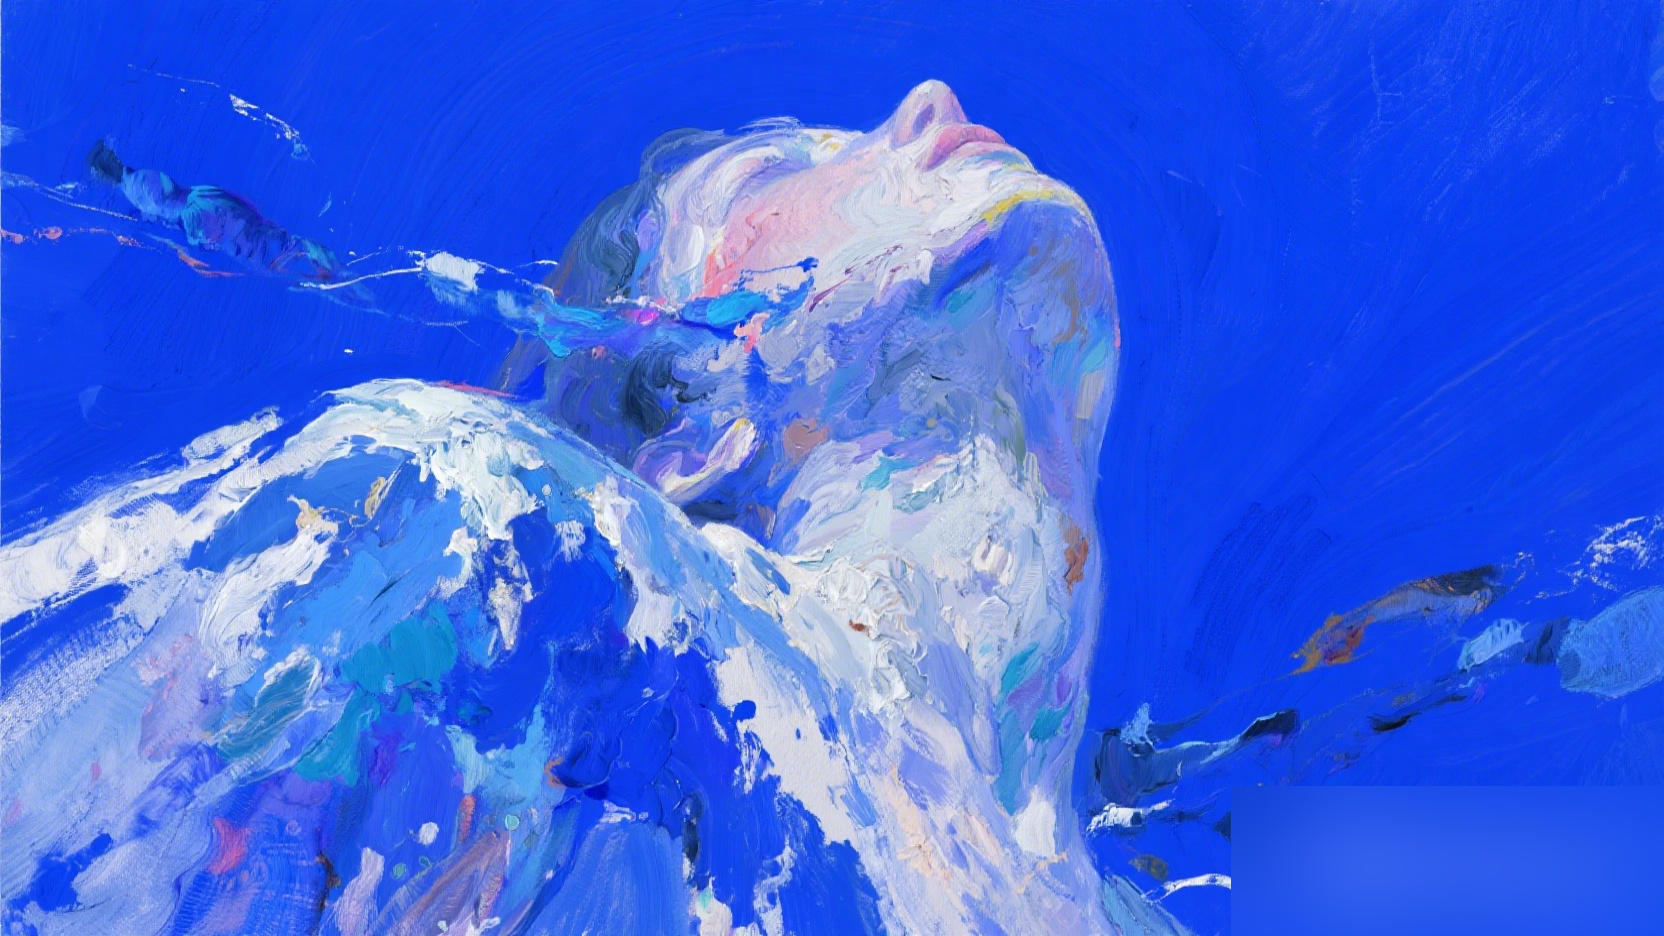
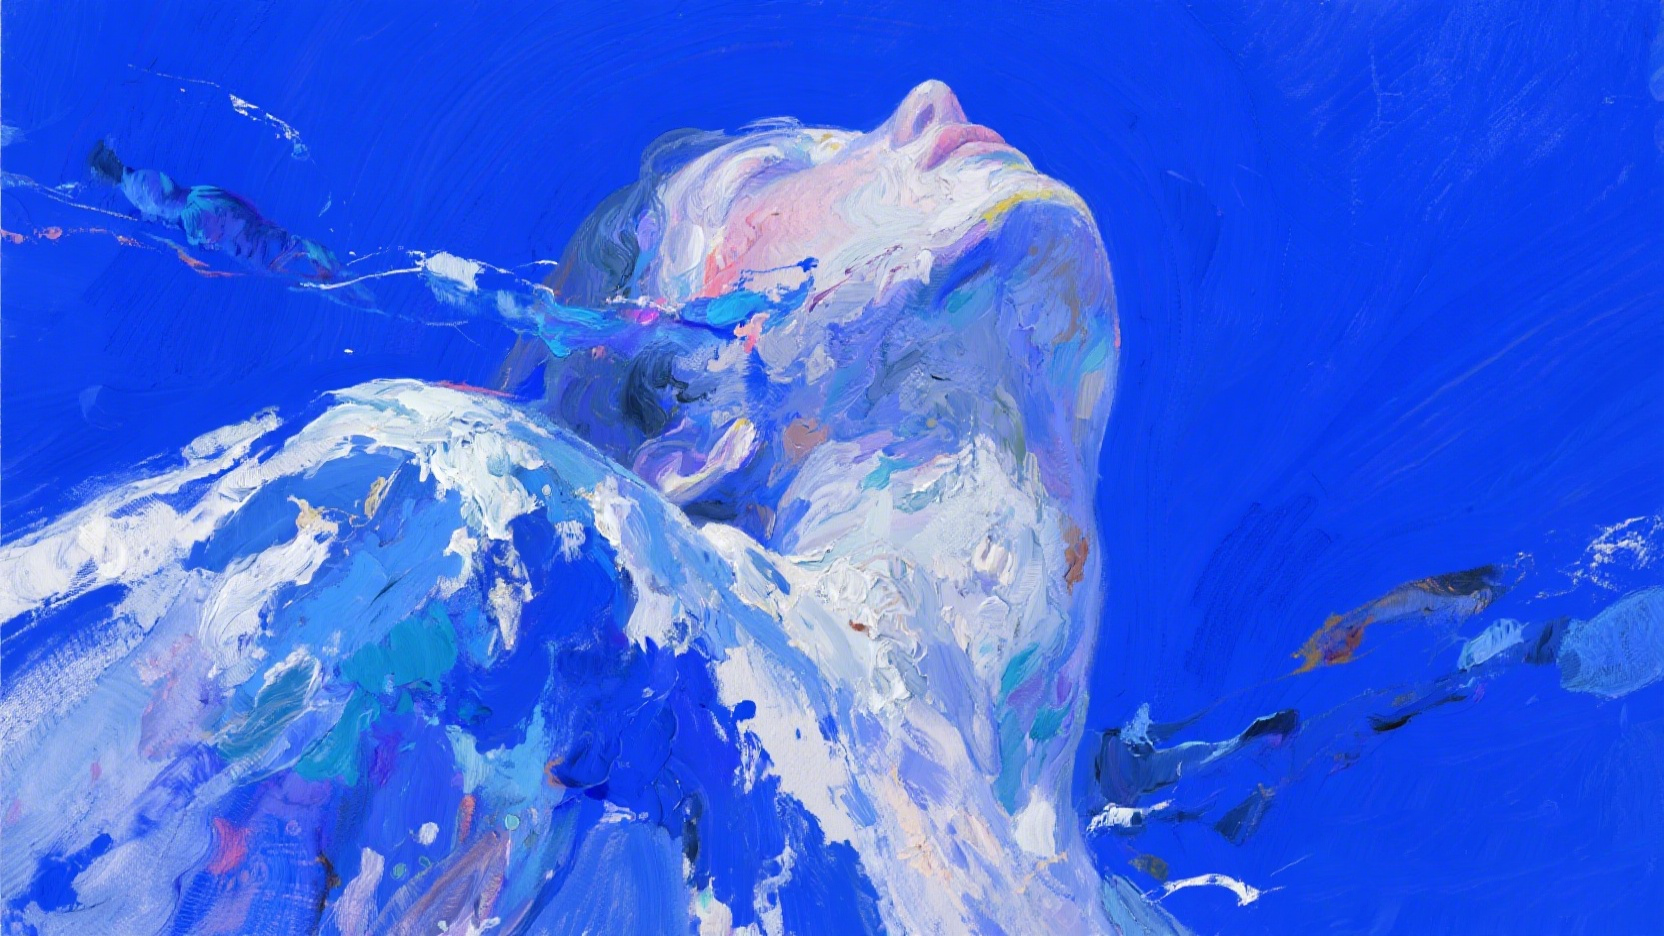
update photos
图片去掉了水印
修改了透明度等属性

Changed region(s): [[0.7188, 0.8365, 0.9688, 1.0]]

diff --git a/css/main.css b/css/main.css
@@ -28,8 +28,7 @@
   --max-content: 1280px;
   --ripple-duration: 0.78s;
   --app-fade: 0.22s;
-  --site-bg-image-opacity: 0.3;
-  --page-overlay: rgba(244, 247, 253, 0.82);
+  --site-bg-image-opacity: 0.5;
 }
 
 *,
@@ -266,12 +265,8 @@ body::before {
 }
 
 .sidebar {
-  background: linear-gradient(
-    180deg,
-    rgba(232, 238, 252, 0.92) 0%,
-    rgba(255, 255, 255, 0.9) 55%
-  );
-  border-right: 1px solid var(--border-subtle);
+  background: transparent;
+  border-right: none;
 }
 
 .sidebar-inner {
@@ -287,7 +282,10 @@ body::before {
   font-weight: 600;
   letter-spacing: 0.12em;
   text-transform: uppercase;
-  color: var(--klein-600);
+  color: var(--klein-800);
+  text-shadow:
+    0 0 1px rgba(255, 255, 255, 0.9),
+    0 1px 10px rgba(244, 247, 253, 0.95);
 }
 
 .sidebar-body {
@@ -296,39 +294,11 @@ body::before {
 
 .main {
   padding: var(--space-xl) var(--space-section);
-  background: var(--page-overlay);
-}
-
-/* 主页：不铺半透明衬底与侧栏/页脚色块，直接透出 body 背景图 */
-.main:has(#view-home:not([hidden])) {
   background: transparent;
 }
 
-.layout:has(#view-home:not([hidden])) .sidebar {
-  background: transparent;
-  border-right-color: transparent;
-}
-
-#app:has(#view-home:not([hidden])) .site-footer {
-  background: transparent;
-  border-top-color: transparent;
-}
-
-.layout:has(#view-home:not([hidden])) .sidebar-title {
-  color: var(--klein-800);
-  text-shadow:
-    0 0 1px rgba(255, 255, 255, 0.9),
-    0 1px 10px rgba(244, 247, 253, 0.95);
-}
-
-#app:has(#view-home:not([hidden])) .footer-note {
-  text-shadow:
-    0 0 1px rgba(255, 255, 255, 0.85),
-    0 1px 10px rgba(244, 247, 253, 0.95);
-}
-
-.main:has(#view-home:not([hidden])) .main-title,
-.main:has(#view-home:not([hidden])) .main-lead {
+.main .main-title,
+.main .main-lead {
   text-shadow:
     0 0 1px rgba(255, 255, 255, 0.85),
     0 1px 12px rgba(244, 247, 253, 0.95);
@@ -350,7 +320,7 @@ body::before {
 .main-lead {
   margin: 0 0 var(--space-xl);
   max-width: 42em;
-  color: var(--text-muted);
+  color: rgba(26, 29, 38, 0.88);
   font-size: 1.05rem;
 }
 
@@ -360,9 +330,9 @@ body::before {
 
 .content-slot {
   min-height: 12rem;
+  border: none;
   border-radius: var(--radius);
-  border: 1px dashed var(--border-subtle);
-  background: rgba(255, 255, 255, 0.6);
+  background: transparent;
 }
 
 .placeholder-grid {
@@ -375,14 +345,17 @@ body::before {
 .placeholder-card {
   aspect-ratio: 3 / 4;
   border-radius: var(--radius);
-  background: linear-gradient(160deg, var(--klein-100), var(--paper));
-  border: 1px solid var(--border-subtle);
+  background: transparent;
+  border: none;
 }
 
 .placeholder-list {
   margin: var(--space-lg) 0 0;
   padding-left: 1.25rem;
-  color: var(--text-muted);
+  color: rgba(26, 29, 38, 0.88);
+  text-shadow:
+    0 0 1px rgba(255, 255, 255, 0.85),
+    0 1px 8px rgba(244, 247, 253, 0.9);
 }
 
 .french-slot {
@@ -391,14 +364,17 @@ body::before {
 
 .site-footer {
   padding: var(--space-md) var(--space-section);
-  border-top: 1px solid var(--border-subtle);
-  background: rgba(255, 255, 255, 0.9);
+  border-top: none;
+  background: transparent;
 }
 
 .footer-note {
   margin: 0;
   font-size: 0.85rem;
-  color: var(--text-muted);
+  color: rgba(26, 29, 38, 0.82);
+  text-shadow:
+    0 0 1px rgba(255, 255, 255, 0.85),
+    0 1px 10px rgba(244, 247, 253, 0.95);
 }
 
 /* ——— Responsive ——— */
@@ -410,7 +386,7 @@ body::before {
   .sidebar {
     order: -1;
     border-right: none;
-    border-bottom: 1px solid var(--border-subtle);
+    border-bottom: none;
   }
 
   .sidebar-inner {